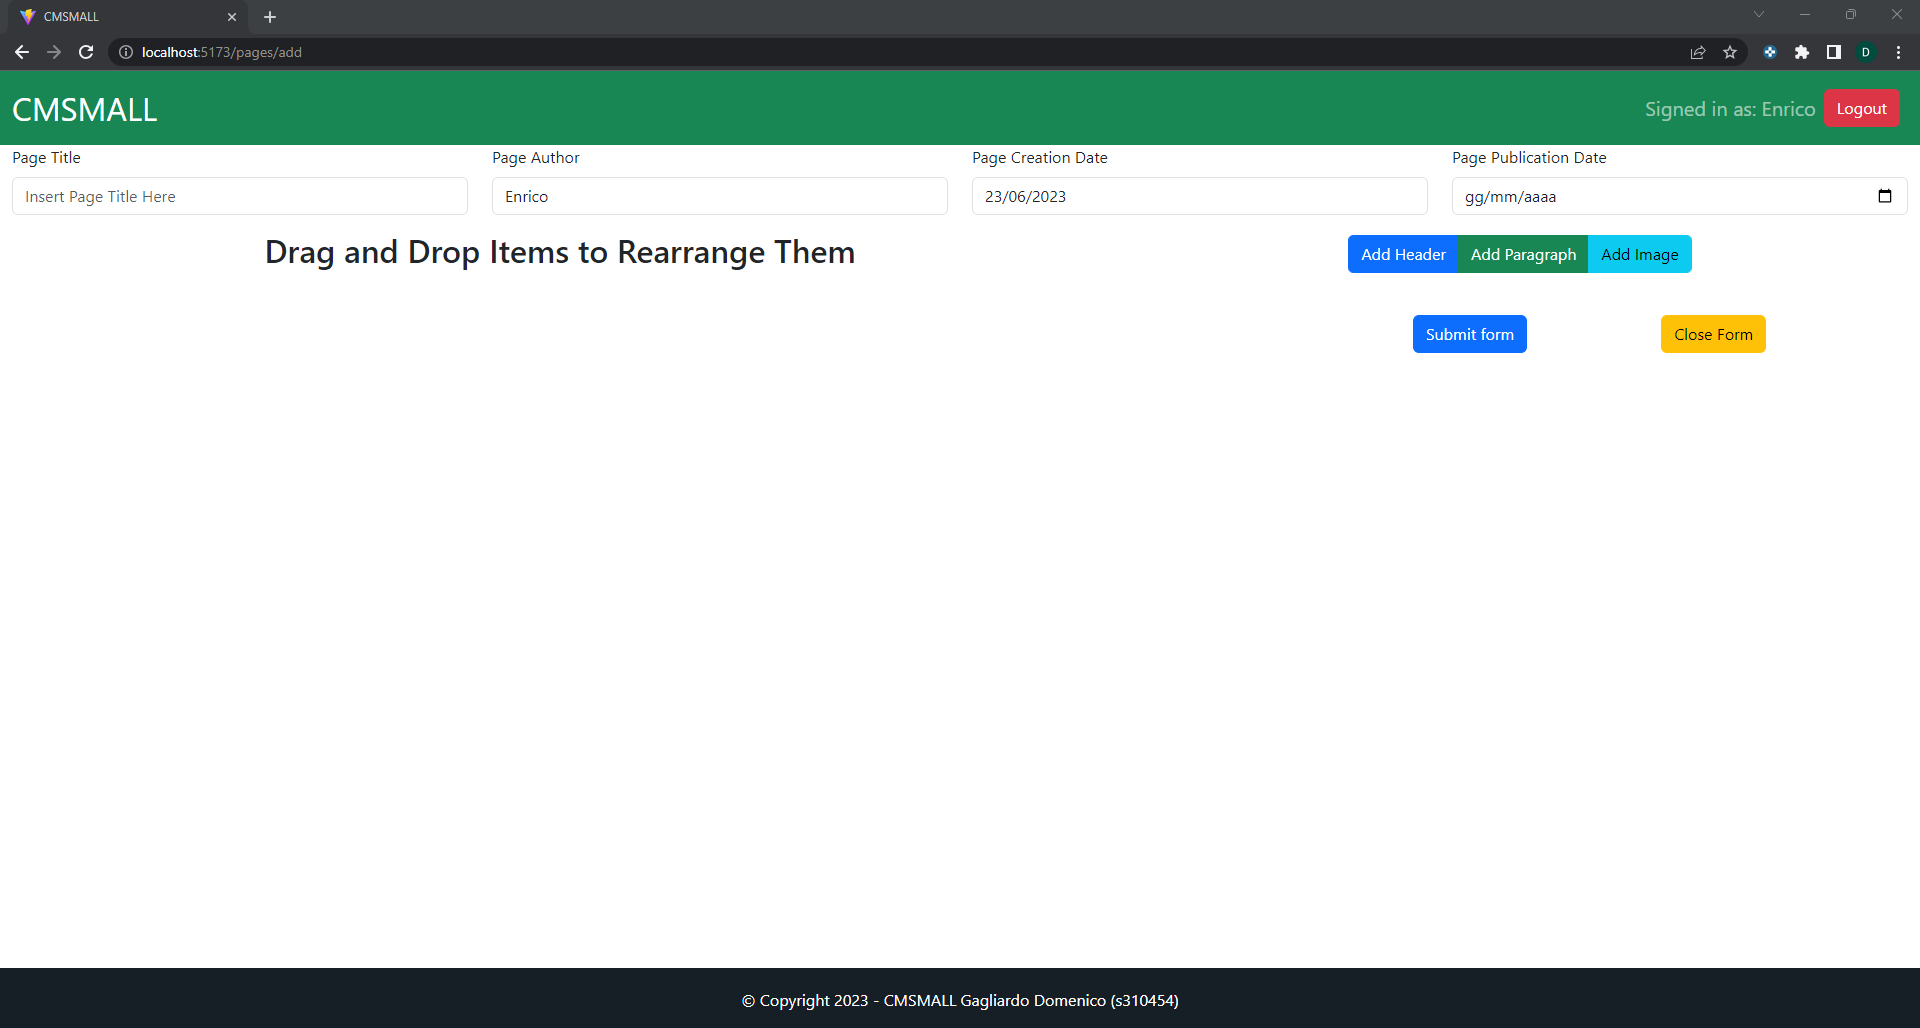
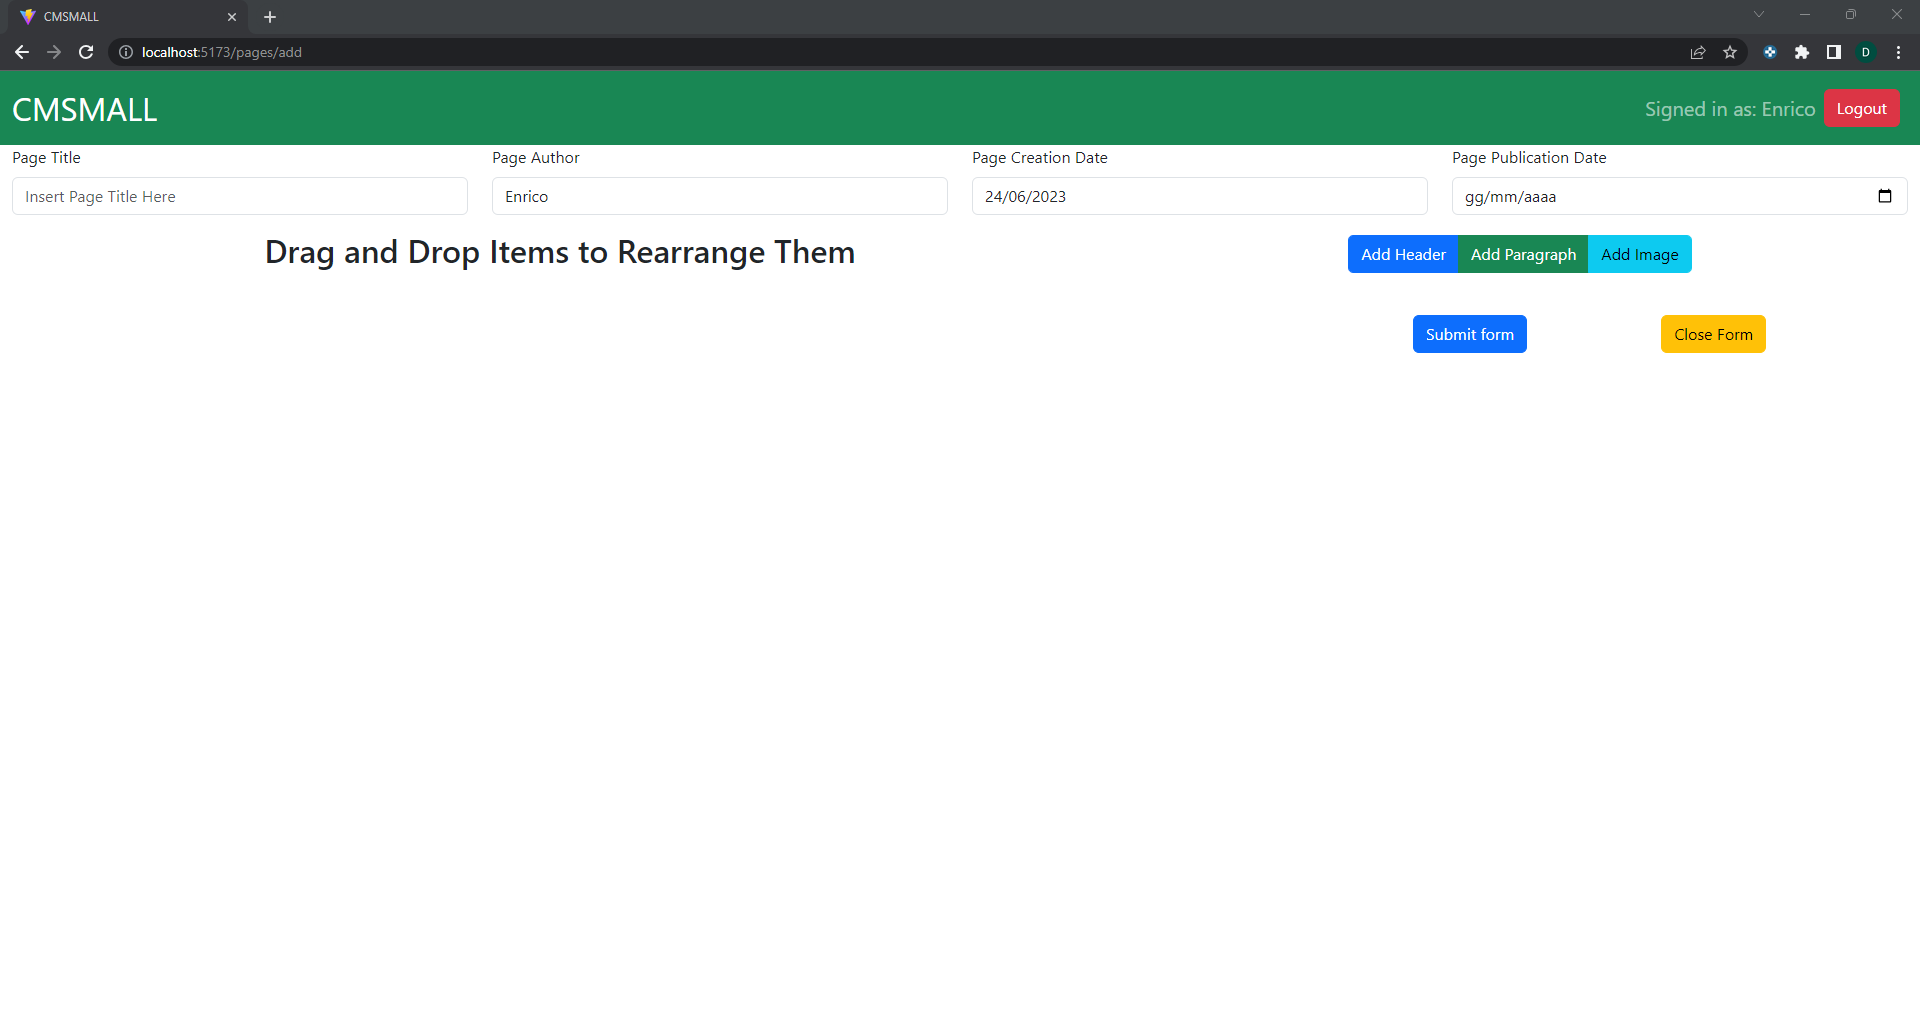
add trim handling

Changed region(s): [[0.0, 0.9339, 1.0, 1.0]]

diff --git a/client/src/components/PageComponent.jsx b/client/src/components/PageComponent.jsx
@@ -29,8 +29,6 @@ function PageComponent(props) {
   const [users, setUsers] = useState([]);
   // state to mantain all the images available
   const [images, setImages] = useState([]);
-  // state of the validation of the form
-  const [validated, setValidated] = useState(false);
   // states of the page (controlled form)
   const [title, setTitle] = useState('');
   const [author, setAuthor] = useState('');
@@ -120,72 +118,69 @@ function PageComponent(props) {
     setInitialLoading(false);
   }, []);
 
-  async function handleSubmit(event)  {
-    const form = event.currentTarget;
+  async function handleSubmit(event) {
     event.preventDefault();
     event.stopPropagation();
-    if (form.checkValidity() === true) {
-      try {
-        // FORM VALIDATION:
-        // ONLY client check needed: check that there is at least one header blocks and another block
-        // publication date before creation is not possible since min attrbiute of input type date
-        // blocks with sameorder is not possible since i take the array index
-        // image with misleading content is not possible since it is not text editable
-        if (blockList.length < 2 || blockList.every((block) => block.type !== 'Header')) {
-          handleError({ error: 'A Page must have at least 1 block of type Header and another block' });
-        } else if(blockList.some((block) => block.content === '')) { 
-          handleError({ error: 'All blocks must not be empty.' });
+    try {
+      // FORM VALIDATION:
+      // ONLY client check needed: check that there is at least one header blocks and another block
+      // publication date before creation is not possible since min attrbiute of input type date
+      // blocks with sameorder is not possible since i take the array index
+      // image with misleading content is not possible since it is not text editable
+      if (title.length === 0) {
+        handleError({ error: 'Title must not have only spaces. Please Insert a Valid Title.' });
+      } else if (blockList.length < 2 || blockList.every((block) => block.type !== 'Header')) {
+        handleError({ error: 'A Page must have at least 1 block of type Header and another block' });
+      } else if (blockList.some((block) => block.content.trim() === '')) {
+        handleError({ error: 'All blocks must not be empty.' });
+      } else {
+        // construct new page object to create/update
+        if (pageId) {
+          // update page API
+          const send_page = { id: pageId, userId: page.userId || user.id, username: author, title: title, creationDate: creationDate, publicationDate: publicationDate ? publicationDate : undefined };
+          send_page.blocks = blockList.map((block, index) => {
+            return {
+              type: block.type,
+              content: block.content.trim(),
+              blockOrder: index + 1
+            };
+          });
+          await API.updatePage(send_page, pageId);
         } else {
-          // construct new page object to create/update
-          if (pageId) {
-            // update page API
-            const send_page = { id: pageId, userId: page.userId || user.id, username: author, title: title, creationDate: creationDate, publicationDate: publicationDate ? publicationDate : undefined };
-            send_page.blocks = blockList.map((block, index) => {
-              return {
-                type: block.type,
-                content: block.content,
-                blockOrder: index + 1
-              };
-            });
-            await API.updatePage(send_page, pageId);
-          } else {
-            // create new page API
-            const send_page = { id: undefined, userId: page.userId || user.id, username: author, title: title, creationDate: creationDate, publicationDate: publicationDate ? publicationDate : undefined };
-            send_page.blocks = blockList.map((block, index) => {
-              return {
-                type: block.type,
-                content: block.content,
-                blockOrder: index + 1
-              };
-            });
-            await API.createPage(send_page);
-          }
-          setDirty(true);
-          navigate('/backoffice');
+          // create new page API
+          const send_page = { id: undefined, userId: page.userId || user.id, username: author, title: title, creationDate: creationDate, publicationDate: publicationDate ? publicationDate : undefined };
+          send_page.blocks = blockList.map((block, index) => {
+            return {
+              type: block.type,
+              content: block.content.trim(),
+              blockOrder: index + 1
+            };
+          });
+          await API.createPage(send_page);
         }
-      } catch (err) {
-        handleError(err);
+        setDirty(true);
+        navigate('/backoffice');
       }
+    } catch (err) {
+      handleError(err);
     }
-    setValidated(true);
   };
 
   return (
     <Container fluid>
       {initialLoading && <LoadingSpinner/>}
-      <Form noValidate validated={validated} onSubmit={handleSubmit}>
+      <Form onSubmit={handleSubmit}>
         <Row className="mb-3">
-          <Form.Group as={Col} md="3" controlId="validationCustom01">
+          <Form.Group as={Col} md="3">
             <Form.Label>Page Title</Form.Label>
             <Form.Control
               required
               readOnly={!render_components}
               type="text"
               placeholder="Insert Page Title Here"
-              onChange={event => setTitle(event.target.value)}
+              onChange={event => setTitle(event.target.value.trim())}
               defaultValue={title}
             />
-            <Form.Control.Feedback type='invalid'>Please Insert a Title.</Form.Control.Feedback>
           </Form.Group>
           <Form.Group as={Col} md="3">
             <Form.Label>Page Author</Form.Label>
@@ -205,14 +200,13 @@ function PageComponent(props) {
                 </Dropdown>
                 : <Form.Control required readOnly={true} type="text" defaultValue={author} />}
           </Form.Group>
-          <Form.Group as={Col} md="3" controlId="validationCustom02">
+          <Form.Group as={Col} md="3">
             <Form.Label>Page Creation Date</Form.Label>
             <Form.Control type="date" readOnly defaultValue={creationDate} />
           </Form.Group>
-          <Form.Group as={Col} md="3" controlId="validationCustom02">
+          <Form.Group as={Col} md="3">
             <Form.Label>Page Publication Date</Form.Label>
             <Form.Control type="date" readOnly={!render_components} min={creationDate} onChange={event => setPublicationDate(event.target.value)} defaultValue={publicationDate} />
-            <Form.Control.Feedback type='invalid'>Please Insert a Valid Date.</Form.Control.Feedback>
           </Form.Group>
         </Row>
         <Row>

diff --git a/client/src/components/AuthComponents.jsx b/client/src/components/AuthComponents.jsx
@@ -7,7 +7,7 @@ import validator from 'validator';
 
 function LoginForm(props) {
   // email and password of the user for login (controlled form)
-  const [email, setemail] = useState('enrico@gmail.com');
+  const [email, setEmail] = useState('u1@p.it');
   const [password, setPassword] = useState('pass');
   // props to set the user state after successfully logged in
   const setUser = useContext(SetUserContext);
@@ -43,26 +43,24 @@ function LoginForm(props) {
 
   const handleSubmit = (event) => {
     event.preventDefault();
-    // make reappear the ogin button on top of the navbar
+    // make reappear the login button on top of the navbar
     setInForm(false);
-    //setErrorMessage('');
     const credentials = { username: email, password: password };
     // FORM VALIDATION
     let valid = true;
     if (email === '' || password === '' || !validator.isEmail(email))
       valid = false;
-
     if (valid) {
       // Validation Passed, send the request to the server
       doLogIn(credentials);
     } else {
       // Validation Failed, show error message
       if (password === '' && email === '') {
-        HandleError('Empty Email and Password.')
+        HandleError({error: 'Empty Email and Password.'});
       } else if (!validator.isEmail(email)) {
-        HandleError('Wrong Email.')
+        HandleError({error: 'Wrong Email.'});
       } else {
-        HandleError('Empty Password.')
+        HandleError({error: 'Empty Password.'});
       }
     }
   };
@@ -77,7 +75,7 @@ function LoginForm(props) {
                   <Form onSubmit={handleSubmit}>
                       <Form.Group controlId='email'>
                           <Form.Label>Email</Form.Label>
-                          <Form.Control type='email' value={email} onChange={ev => setemail(ev.target.value)} />
+                          <Form.Control type='email' value={email} onChange={ev => setEmail(ev.target.value)} />
                       </Form.Group>
                       <Form.Group controlId='password'>
                           <Form.Label>Password</Form.Label>

diff --git a/client/src/App.jsx b/client/src/App.jsx
@@ -147,7 +147,6 @@ function App() {
                   <Route path='/pages/edit/:id' element={user.id ? <PageComponent location={'edit'}/> : <Navigate replace to='/'/> } />
                   <Route path='*' element={<DefaultRoute/>} />
                 </Routes>
-                <Footer/>
               </SetDirtyContext.Provider>
             </HandleErrorContext.Provider>
           </SetUserContext.Provider>
@@ -171,16 +170,6 @@ function DefaultRoute() {
         </Col>
       </div>
   );
-}
-
-function Footer() {
-  return(
-      <>  
-          <footer id='footer'>    
-              <p>© Copyright {dayjs().year()} - CMSMALL Gagliardo Domenico (s310454)</p>  
-          </footer>
-      </>
-  )
 }
 
 export default App;

diff --git a/client/src/components/BlockManagement.jsx b/client/src/components/BlockManagement.jsx
@@ -20,7 +20,6 @@ function BlockForm(props) {
     const [showImages, setShowImages] = useState(false);
     // temporary client id for visualization (find the max id in the blockList array and add 1)
     const [tempId,setTempId] = useState(blockList.reduce((max, obj) => (obj.id > max ? obj.id : max), 0) + 1);
-    console.log(tempId);
     // function to add an empty Header block to the blockList
     function addHeader() {
         // temporary client id just for visualization, when sended to the server will be removed and created by the db

diff --git a/client/src/components/Navbar.jsx b/client/src/components/Navbar.jsx
@@ -33,7 +33,7 @@ function NavHeader(props) {
         // disable name editing
         setEditable(false);
         // click change website name without change nothing
-        if (new_name !== '') {
+        if (new_name.trim() !== '') {
             props.updateWebsiteName(new_name);
             setEditingName('');
         }

diff --git a/server/dao-blocks.js b/server/dao-blocks.js
@@ -35,7 +35,6 @@ exports.getNumberOfBlocks = (pageId) => {
     });
 };
 
-// NON USATA
 // This function return a specific block given its id.
 exports.getBlock = (blockId) => {
     return new Promise((resolve, reject) => {

diff --git a/README.md b/README.md
@@ -433,7 +433,7 @@
 
 | email | password | other_info |
 |------------------|----------|-------------|
-|enrico@gmail.com|pass|user author of two pages, 1 page published and 1 page draft|
-|giorgio@gmail.com|pass|user who has never created a page|
-|admin@gmail.com|pass|user with admin privileges|
-|domenico@gmail.com|pass|user author of the remaining 4 pages: 1 published,1 draft,2 programmed|
+|u1@p.it|pass|user author of two pages, 1 page published and 1 page draft|
+|u2@p.it|pass|user who has never created a page|
+|u3@p.it|pass|user with admin privileges|
+|u4@p.it|pass|user author of the remaining 4 pages: 1 published,1 draft,2 programmed|
